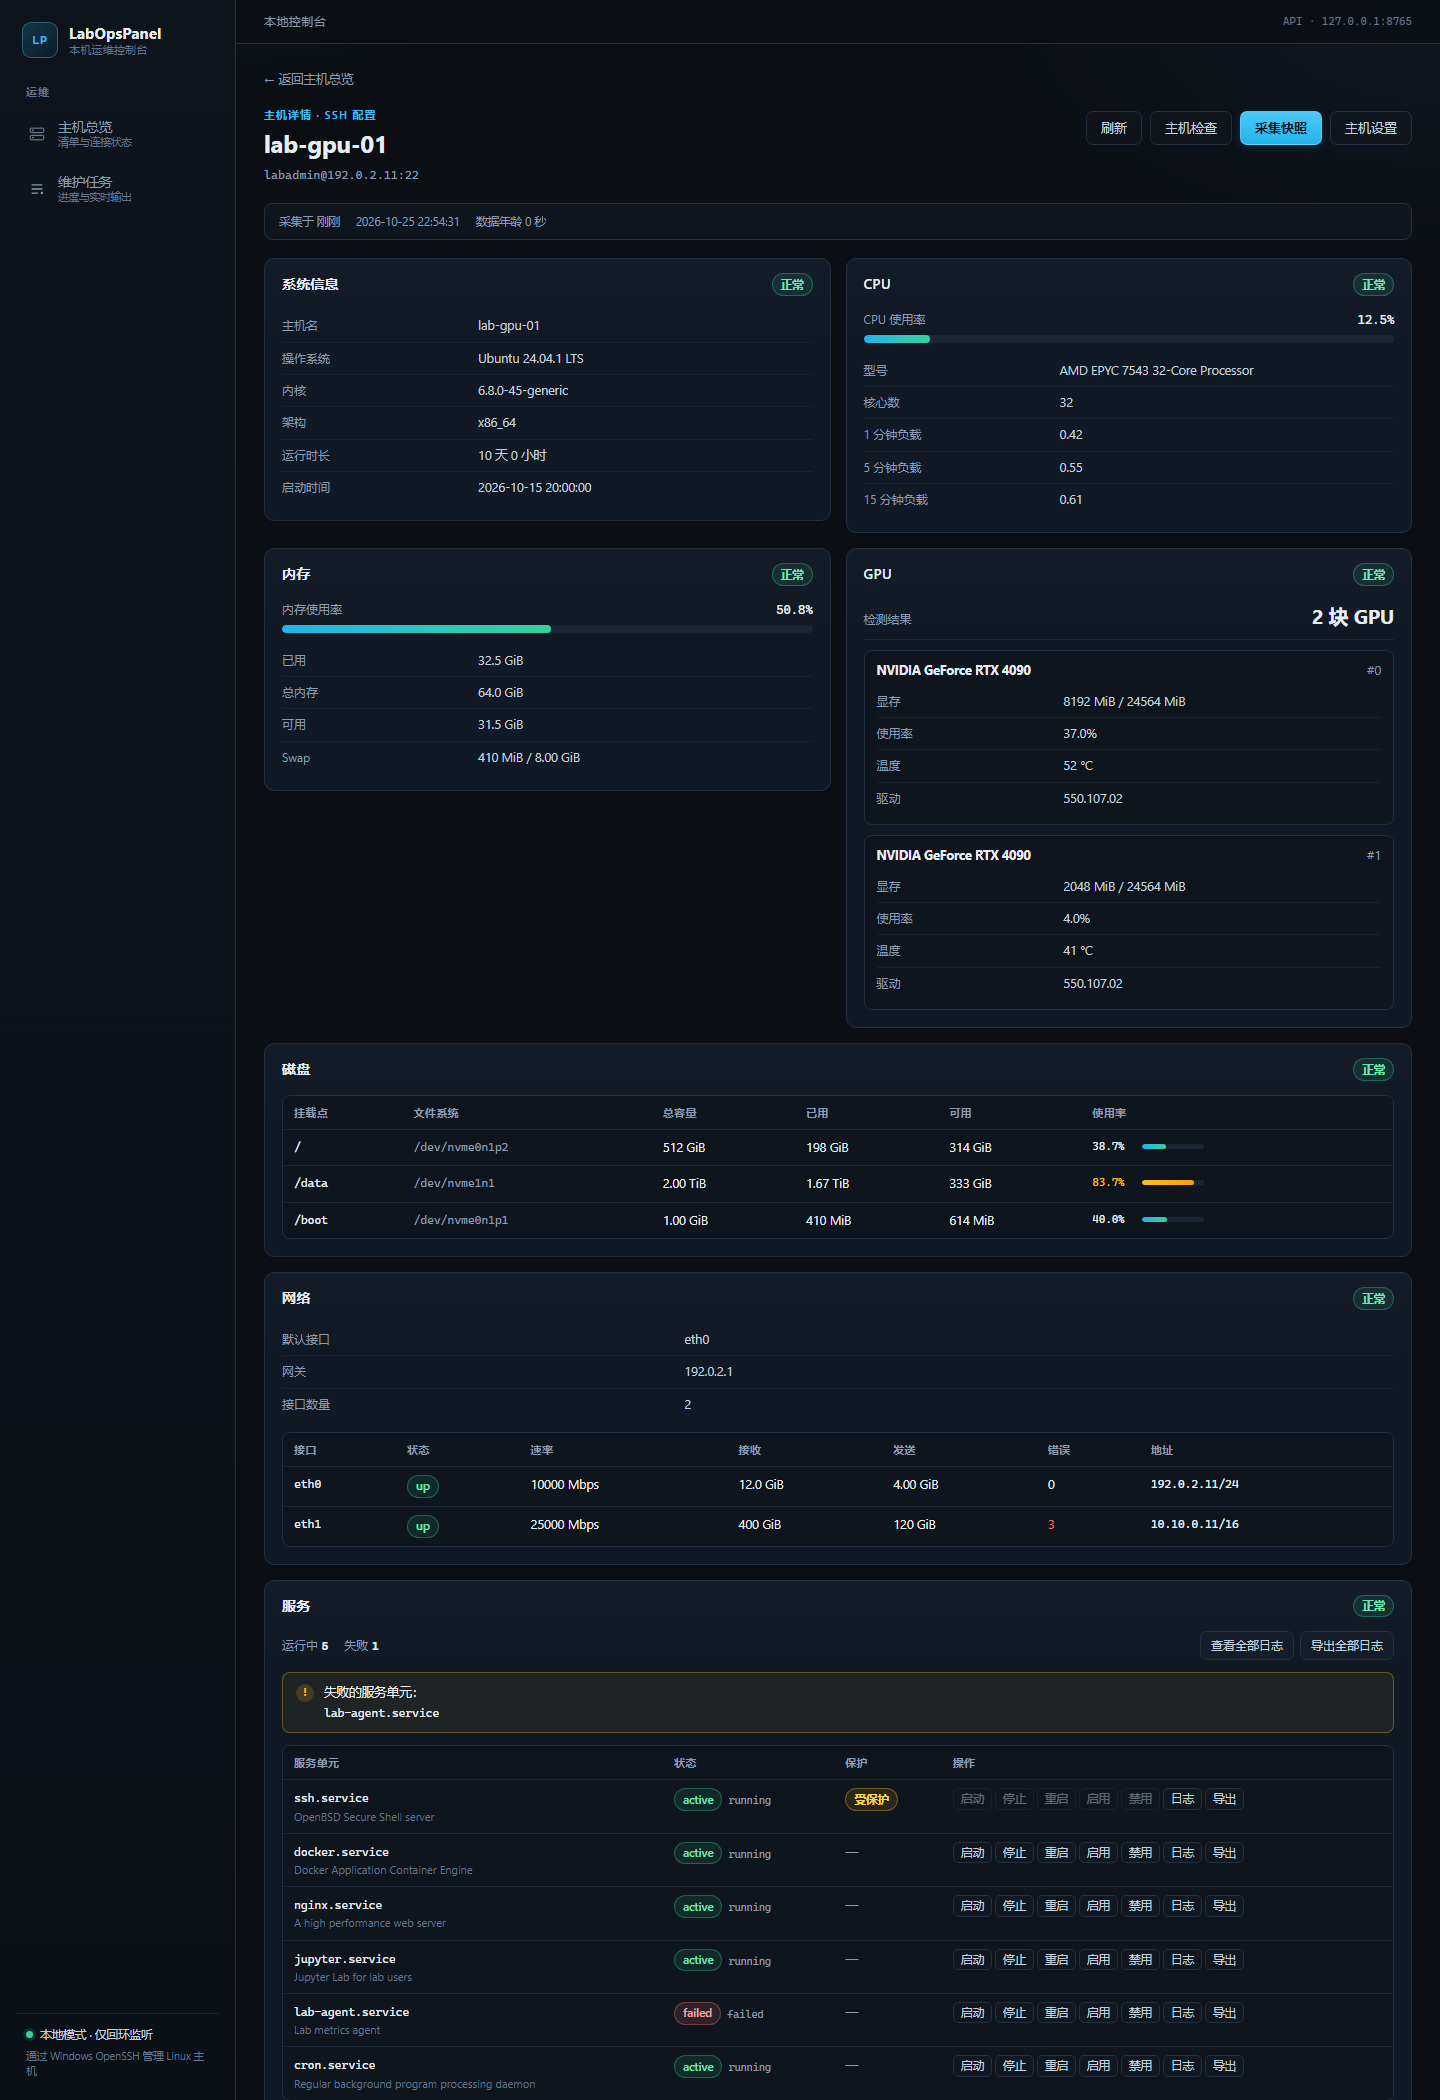
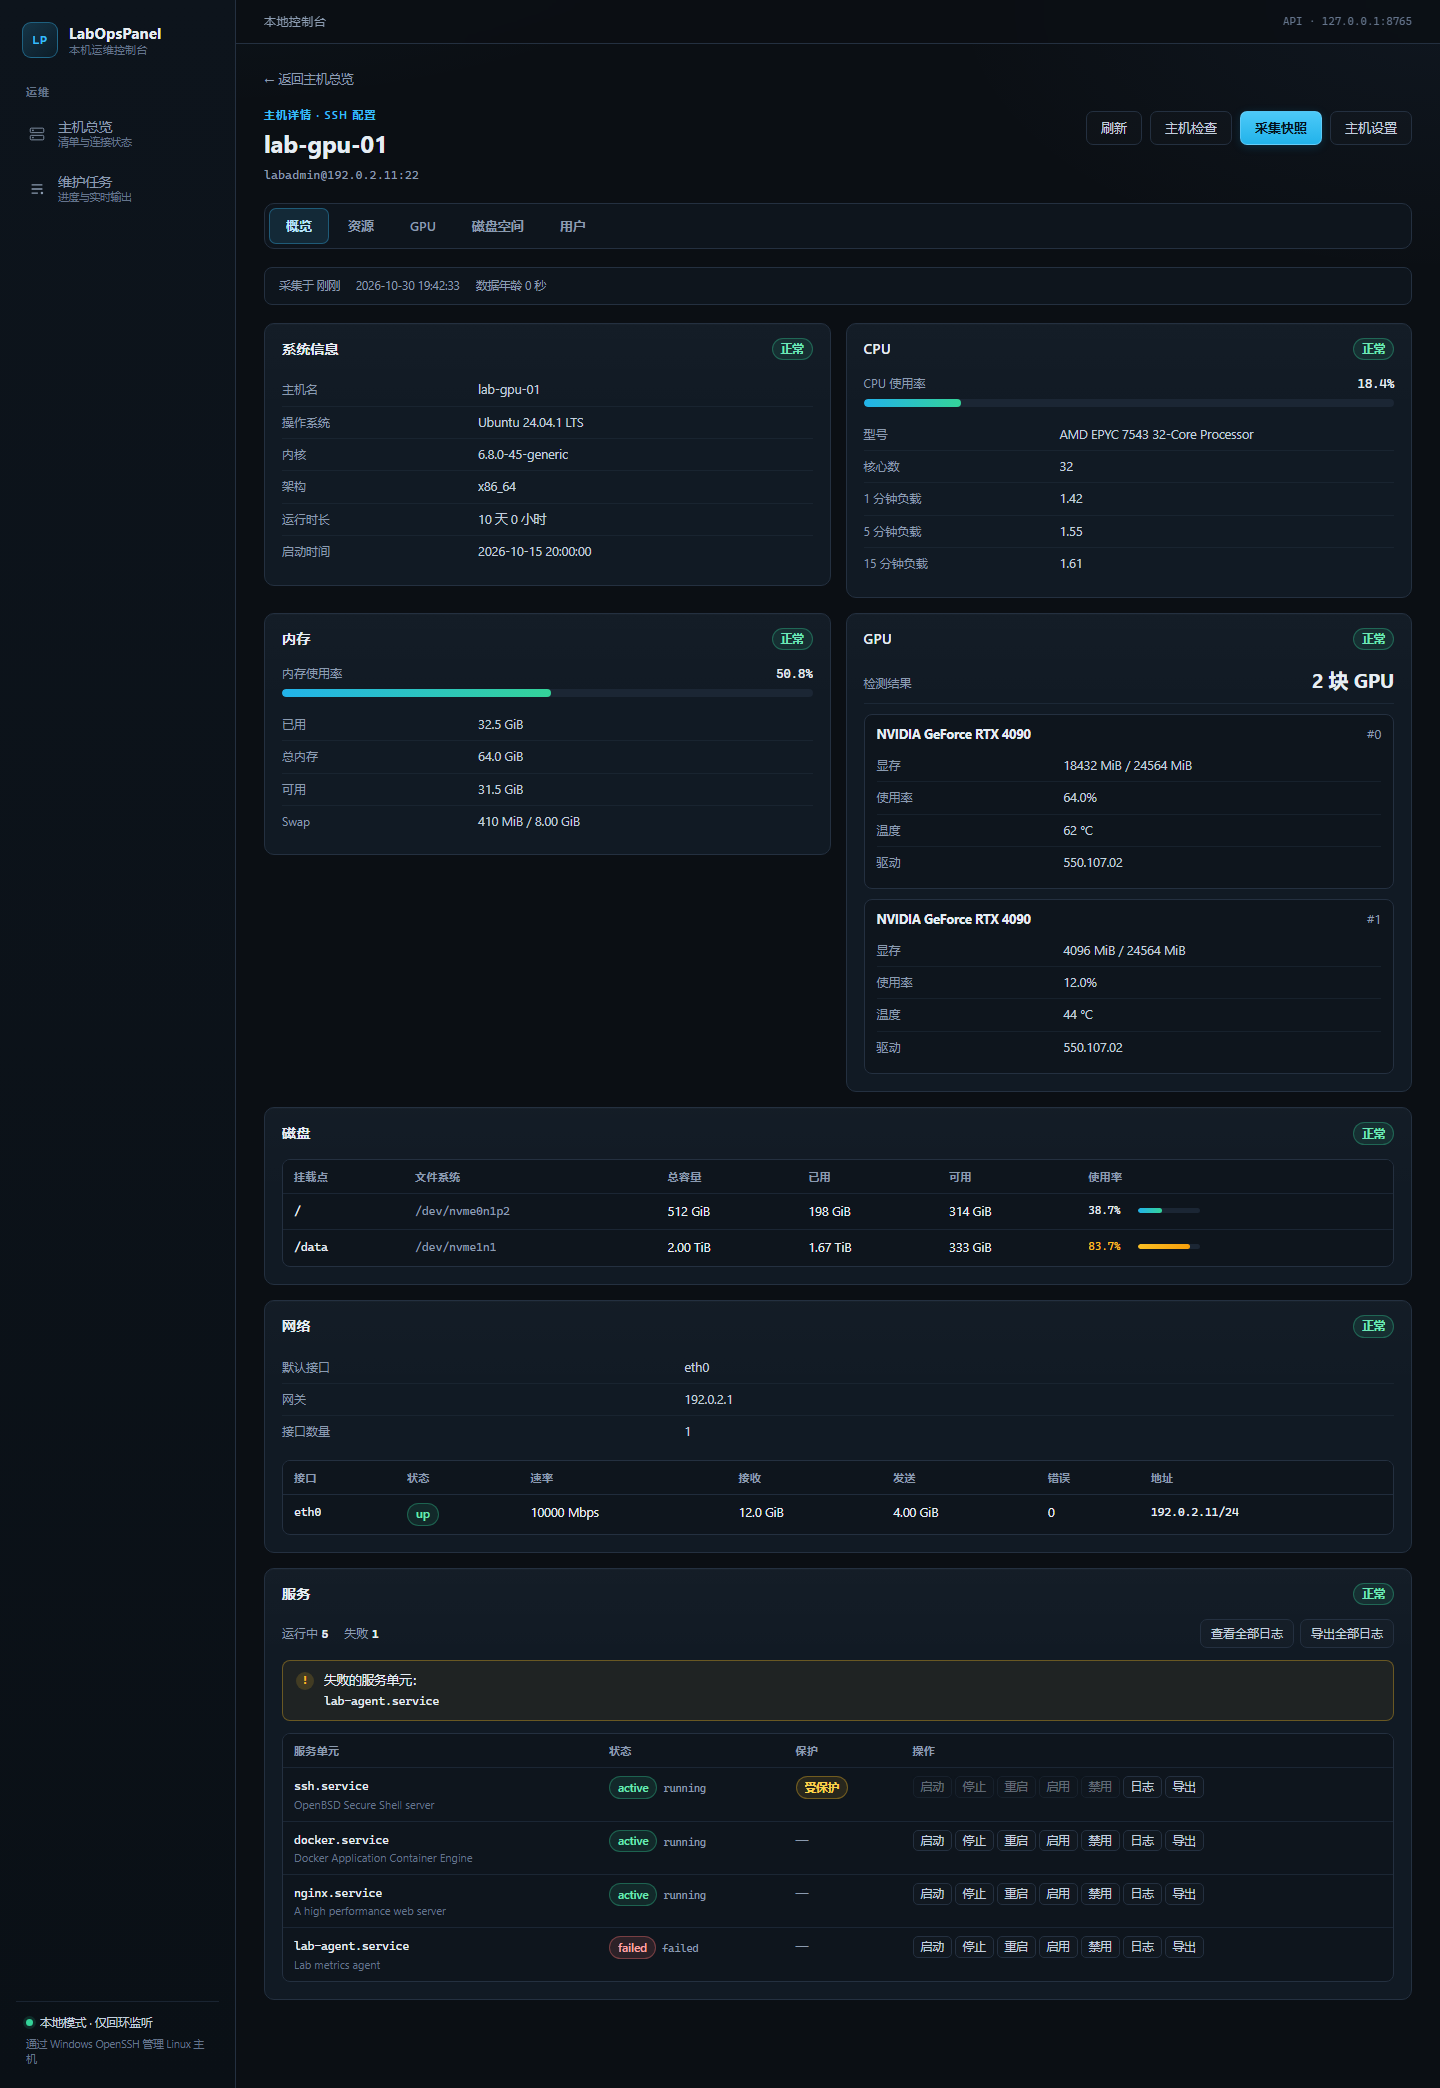
Document resource observability acceptance and screenshots

diff --git a/docs/requirements/acceptance.md b/docs/requirements/acceptance.md
@@ -63,13 +63,28 @@
 证据：`docs/screenshots/03-tasks.png`；端到端演示中 `service_restart` 任务三步全部 `ok`、SSE 收到 `done`、
 重复幂等键返回 409、`ssh.service` stop 返回 409、审计出现 `service_restart/succeeded`。
 
-### 4.3 阶段三：趋势与扩展（未开始）
+### 4.3 阶段三：资源观测与磁盘空间管理（A–D 已完成）
 
-- [ ] 短周期资源趋势与 GPU 进程视图。
-- [ ] 受控命令之外的批量任务、账户同步、SSH 公钥管理（需先补需求与安全验收）。
+详细范围、sudo 矩阵、组件评估与测试场景见 [资源观测与磁盘空间管理规划](resource-observability-plan.md)，
+接口契约见 [api.md §8](api.md)。
 
-首版有意不实现以上内容；`run_command` 仅在 `LABOPS_ALLOW_ARBITRARY_COMMANDS=true` 时开放，
-仍受 Bash 语法检查、确认、超时与输出截断约束。
+- [x] A：CPU/内存/Swap、磁盘 I/O、网络 I/O 短周期趋势；返回采样间隔、远端/本机时间、累计计数与派生速率；
+  计数器回绕/间隔过短时返回 `reset` 与 `null` 速率，不编造 0。
+- [x] B：GPU 设备详情（PCI、驱动、显存、利用率、温度、功耗、时钟、MIG）与进程表（PID/USER/命令/程序位置/
+  启动时间），`processesStatus` 区分 `ok`/`partial`/`unavailable`；不向前端暴露 `nvidia-smi` 原始文本。
+- [x] C：挂载点 allowlist、后台扫描任务、SSE 进度与节点分块、取消、应用重启标记 `interrupted`；
+  one-file-system、符号链接策略、硬链接 inode 去重、稀疏文件 `allocatedBytes`/`apparentBytes`、
+  权限错误 `incomplete` 传播、deleted-open 文件、min size/uid/扩展名/时间过滤、treemap 与目录/最大文件/UID 汇总。
+- [x] D：可登录用户、主组/附加组、home 摘要、sudo 三态（`组成员`/`策略存在`/`有效权限`），
+  `unknown` 不折算为 `false`；按 UID 的空间扫描复用 C 的扫描管线。
+- [ ] 受控命令之外的批量任务、账户同步、SSH 公钥管理（需先补需求与安全验收，仍未开始）。
+- [ ] AMD/Intel GPU 适配器（规划中的后续项，首版仅 NVIDIA）。
+- [ ] 逐目录的实时进度（当前为阶段式进度：queued → scanning → aggregating → chunking → done）。
+
+证据：`uv run pytest`（275 passed，1 skipped）覆盖指标差分与回绕、GPU 缺失/多卡/MIG/不可见进程、
+存储树聚合与硬链接/稀疏/过滤、用户与 sudo 三态、扫描允许清单/取消/并发限制/重启恢复/SSE；
+前端 `npm test`（46 passed）覆盖五个页签、图表降级、GPU 进程过滤排序、扫描进度/取消/treemap、sudo 三态；
+界面截图见 `docs/screenshots/06-metrics.png`、`07-gpu.png`、`08-storage.png`、`09-users.png`。
 
 ### 4.4 复验命令
 

diff --git a/docs/requirements/architecture.md b/docs/requirements/architecture.md
@@ -119,9 +119,12 @@ src/lab_ops_panel/
 
 ### 6.7 测试
 
-- 后端 182 个用例覆盖解析、传输、DPAPI、探针、任务、迁移与 API；Windows 之外跳过 DPAPI 用例。
-- 传输层用 Windows 批处理模拟 ssh 客户端验证超时、取消、截断与 stdin；其余用例使用 `FakeTransport`。
-- 前端 20 个用例覆盖 API 错误映射、主机卡片、分区降级、确认对话框、任务取消与 SSE、密码设置/清除。
+- 后端 275 个用例（含阶段三）覆盖解析、传输、DPAPI、探针、任务、指标、GPU、用户、扫描、迁移与 API；
+  Windows 之外跳过 DPAPI 用例。
+- 传输层用 Windows 批处理模拟 ssh 客户端验证超时、取消、截断与 stdin；其余用例使用 `FakeTransport` 与
+  在临时目录中执行的真实探针源码。
+- 前端 46 个用例覆盖 API 错误映射、主机卡片、分区降级、确认对话框、任务取消与 SSE、密码设置/清除，
+  以及五个观测页签、图表降级、GPU 过滤排序、扫描进度/取消/treemap 与 sudo 三态。
 
 ## 7. 阶段三：资源观测实现
 

diff --git a/docs/requirements/README.md b/docs/requirements/README.md
@@ -44,6 +44,7 @@ AMD/Intel GPU 适配器与远端常驻指标采集。后续功能必须先补充
 
 ## 5. 相关文档
 
+- [资源观测与磁盘空间管理规划](resource-observability-plan.md)
 - [架构与实现要求](architecture.md)
 - [API 契约](api.md)
 - [安全设计与残余风险](security.md)
